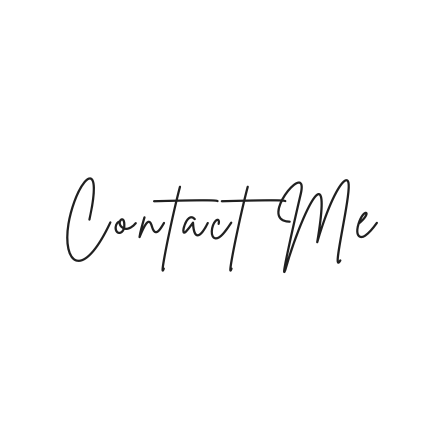
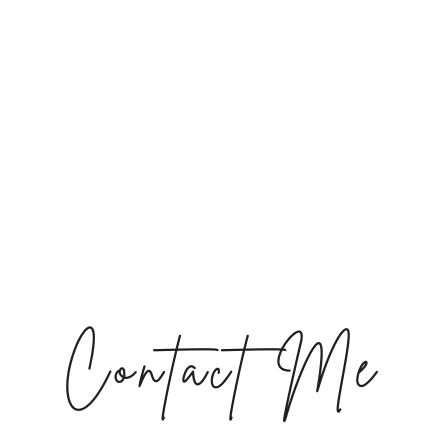
added placeholders and tweaked the postioning of the images

diff --git a/src/components/Book/Book.jsx b/src/components/Book/Book.jsx
@@ -23,7 +23,11 @@ const Book = () => {
               <br />
               <label htmlFor="emailadd">Email address</label>
               <br />
-              <input id="emailadd" type="text" />
+              <input
+                id="emailadd"
+                type="text"
+                placeholder="eg. cust@gmail.com"
+              />
               <br />
               <label htmlFor="subjectEmail">Subject</label>
               <br />

diff --git a/src/styles/bookstyles.css b/src/styles/bookstyles.css
@@ -14,7 +14,7 @@
 
 .form__wrapper{
     margin-left: 190px;
-    margin-top: 175px;
+    margin-top: 135px;
 }
 
 .form__wrapper input{
@@ -50,6 +50,7 @@
 
 .contactme-image{
     position: absolute;
-    top:0;
+    top:-150px;
     left: 100px;
+    width: 400px;
 }
